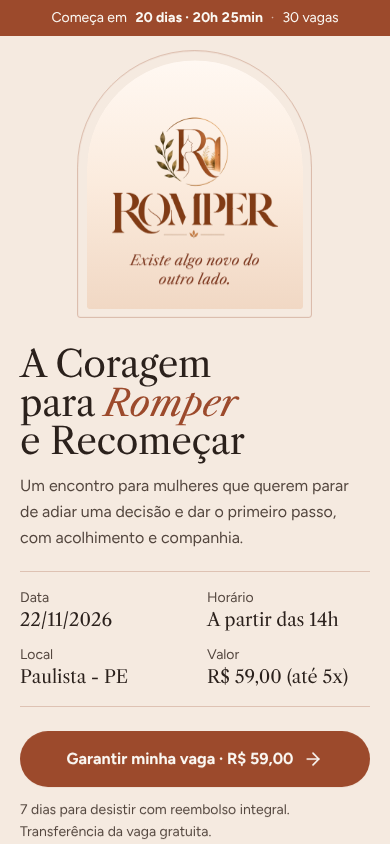
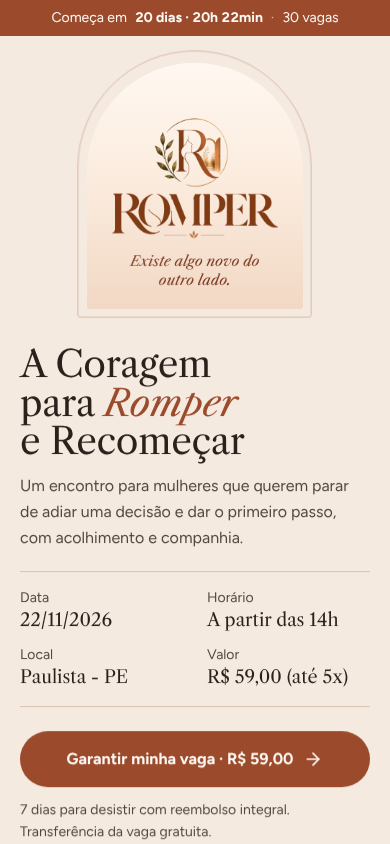
Frase do arco diminui em vez de sumir em celulares mais baixos
Claude-Session: https://claude.ai/code/session_01J7WFRn7juCVtrvQuFSdBz2

diff --git a/src/sections/Hero.tsx b/src/sections/Hero.tsx
@@ -30,7 +30,7 @@ export function Hero() {
                 loading="eager"
                 fetchPriority="high"
               />
-              <p style={{ animationDelay: '0.35s' }} className="entra-logo mt-2 text-center font-serif text-sm italic leading-snug text-terracota-dark [@media(max-height:800px)]:hidden sm:mt-5 sm:text-lg sm:[@media(max-height:800px)]:block">
+              <p style={{ animationDelay: '0.35s' }} className="entra-logo mt-2 text-center font-serif text-sm italic leading-snug text-terracota-dark [@media(max-height:800px)]:mt-1 [@media(max-height:800px)]:text-[0.7rem] sm:mt-5 sm:text-lg sm:[@media(max-height:800px)]:text-lg">
                 Existe algo novo do outro lado.
               </p>
             </div>
